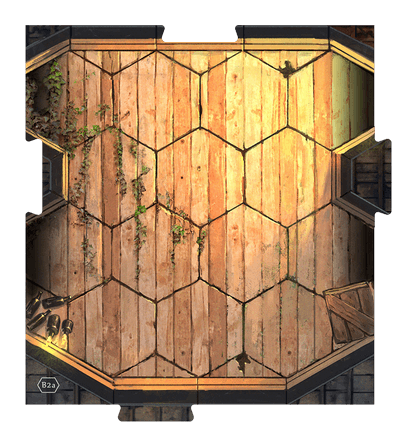
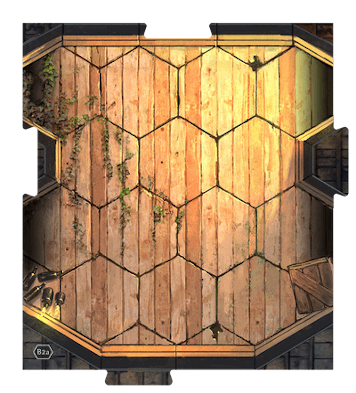
Normalizes tile set B into new standard

diff --git a/static/scss/main.scss b/static/scss/main.scss
@@ -52,14 +52,14 @@ $hexRotation: 60deg;
             ('a4a', -20px, 20px)
             ('a4b', -20px, 20px)
 
-            ('b1a', -21px, -53px)
-            ('b1b', -21px, -53px)
-            ('b2a', -21px, -53px)
-            ('b2b', -21px, -53px)
-            ('b3a', -21px, -53px)
-            ('b3b', -21px, -53px)
-            ('b4a', -21px, -53px)
-            ('b4b', -21px, -53px)
+            ('b1a', -27px, -51px)
+            ('b1b', -27px, -51px)
+            ('b2a', -27px, -51px)
+            ('b2b', -27px, -51px)
+            ('b3a', -27px, -51px)
+            ('b3b', -27px, -51px)
+            ('b4a', -27px, -51px)
+            ('b4b', -27px, -51px)
 
             ('c1a', -61px, -45px)
             ('c1b', -61px, -45px)
